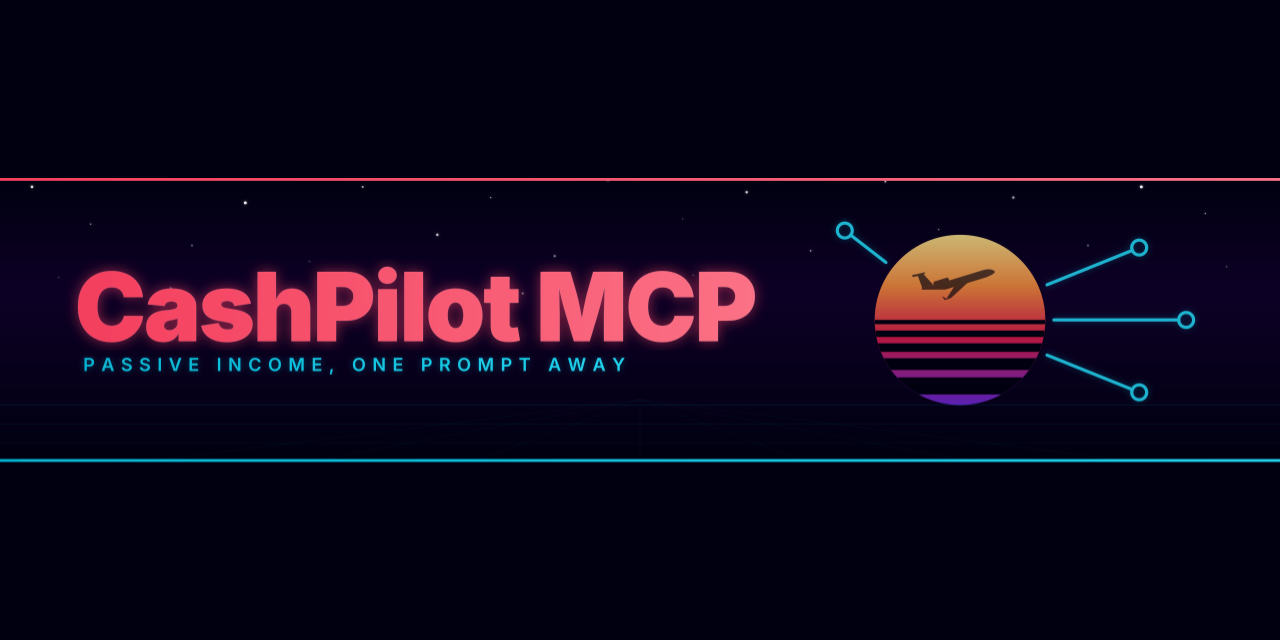
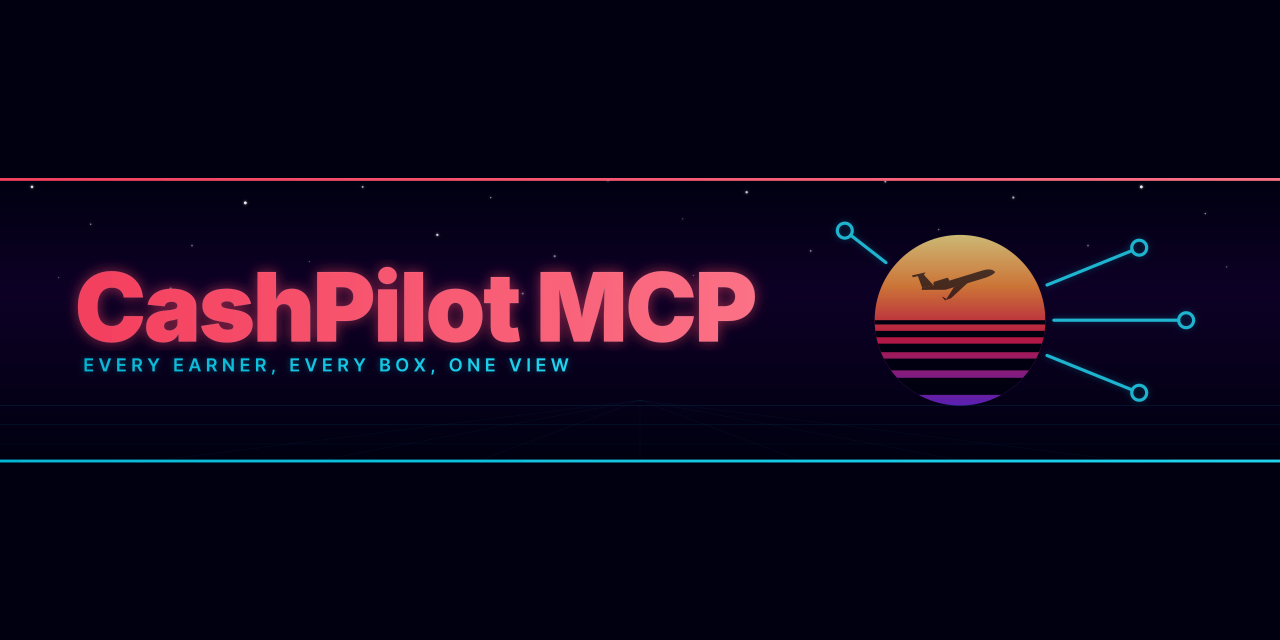
docs: describe the MCP server as CashPilot's fleet and earnings for AI agents (#72)

Changed region(s): [[0.0625, 0.5312, 0.5, 0.5938], [0.6875, 0.5, 0.8125, 0.5625], [0.875, 0.5938, 0.9062, 0.625]]

diff --git a/README.md b/README.md
@@ -10,11 +10,11 @@
   <a href="https://hub.docker.com/r/drumsergio/cashpilot-mcp"><img src="https://img.shields.io/docker/pulls/drumsergio/cashpilot-mcp?style=flat-square&logo=docker" alt="Docker Pulls"/></a>
   <a href="https://github.com/GeiserX/cashpilot-mcp/stargazers"><img src="https://img.shields.io/github/stars/GeiserX/cashpilot-mcp?style=flat-square&logo=github" alt="GitHub Stars"/></a>
   <a href="https://github.com/GeiserX/cashpilot-mcp/blob/main/LICENSE"><img src="https://img.shields.io/github/license/GeiserX/cashpilot-mcp?style=flat-square" alt="License"/></a>
-  <a href="https://cashpilot.club"><img src="https://img.shields.io/badge/website-cashpilot.club-blue?style=flat-square" alt="Website"/></a>
-  <a href="https://x.com/CashPilotClub"><img src="https://img.shields.io/badge/X-%40CashPilotClub-000000?style=flat-square&logo=x" alt="X"/></a>
 </p>
 
-<p align="center"><strong>A tiny bridge that exposes any CashPilot instance as an MCP server, enabling LLMs to monitor passive income earnings, manage services, and control fleet workers.</strong></p>
+<p align="center"><strong>Every earner, every box, one view, for your AI agent.</strong><br><a href="https://cashpilot.club">cashpilot.club</a> · <a href="https://x.com/CashPilotClub">@CashPilotClub on X</a></p>
+
+A small bridge that exposes any CashPilot instance as an MCP server. CashPilot is the self-hosted dashboard for bandwidth sharing, DePIN, mining, GPU compute and storage earners. With this server, an AI agent can read your earnings and the health of every box, and start, stop or deploy earners on any worker.
 
 It talks to your own [CashPilot](https://github.com/GeiserX/CashPilot) instance with its API key, over stdio or Streamable HTTP.
 
@@ -119,7 +119,7 @@ With more than one worker online, service tools need `worker_id` (from `list_wor
 
 ## Related projects
 
-[CashPilot](https://github.com/GeiserX/CashPilot), the passive income fleet manager this server talks to.
+[CashPilot](https://github.com/GeiserX/CashPilot), the self-hosted dashboard for every earner and every box that this server talks to.
 
 ## License
 

diff --git a/docs/related.md b/docs/related.md
@@ -15,9 +15,9 @@
 
 | Project | Description |
 |---------|-------------|
-| [CashPilot](https://github.com/GeiserX/CashPilot) | Self-hosted passive income platform with web UI for setup and earnings tracking |
-| [CashPilot-android](https://github.com/GeiserX/CashPilot-android) | Android monitoring agent for CashPilot passive income apps |
-| [cashpilot-ha](https://github.com/GeiserX/cashpilot-ha) | Home Assistant custom integration for CashPilot passive income monitoring |
+| [CashPilot](https://github.com/GeiserX/CashPilot) | Self-hosted dashboard and Docker worker for every earner and every box |
+| [CashPilot-android](https://github.com/GeiserX/CashPilot-android) | Android agent that watches the earning apps on your phone and reports them to your fleet |
+| [cashpilot-ha](https://github.com/GeiserX/cashpilot-ha) | Home Assistant custom integration for CashPilot earnings and service status |
 
 ## Other MCP servers by GeiserX
 

diff --git a/docs/development.md b/docs/development.md
@@ -21,7 +21,7 @@ CashPilot-MCP follows the [Contributor Covenant](http://contributor-covenant.org
 
 ## Credits
 
-[CashPilot](https://github.com/GeiserX/CashPilot) -- passive income fleet management dashboard
+[CashPilot](https://github.com/GeiserX/CashPilot) -- self-hosted dashboard for every earner and every box
 
 [MCP-GO](https://github.com/mark3labs/mcp-go) -- modern MCP implementation
 
